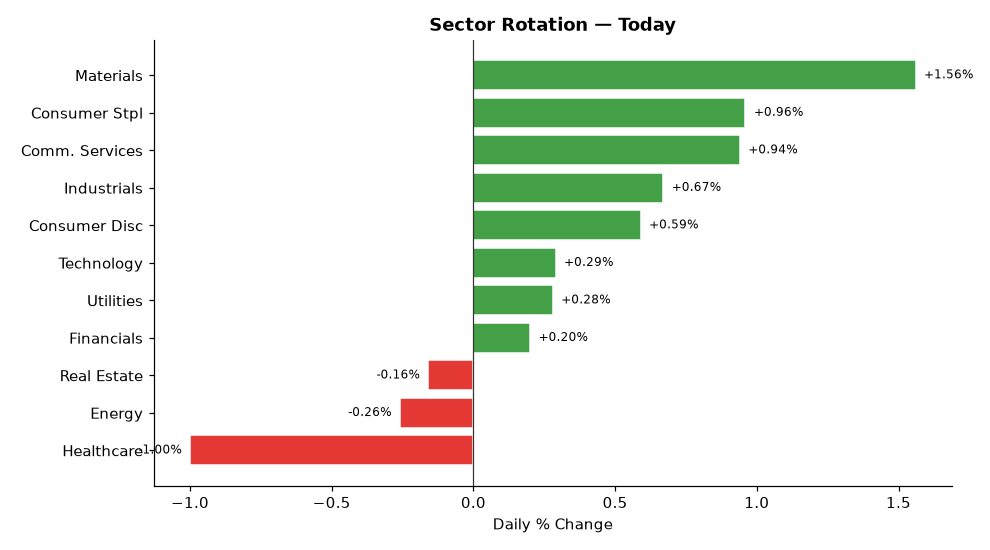
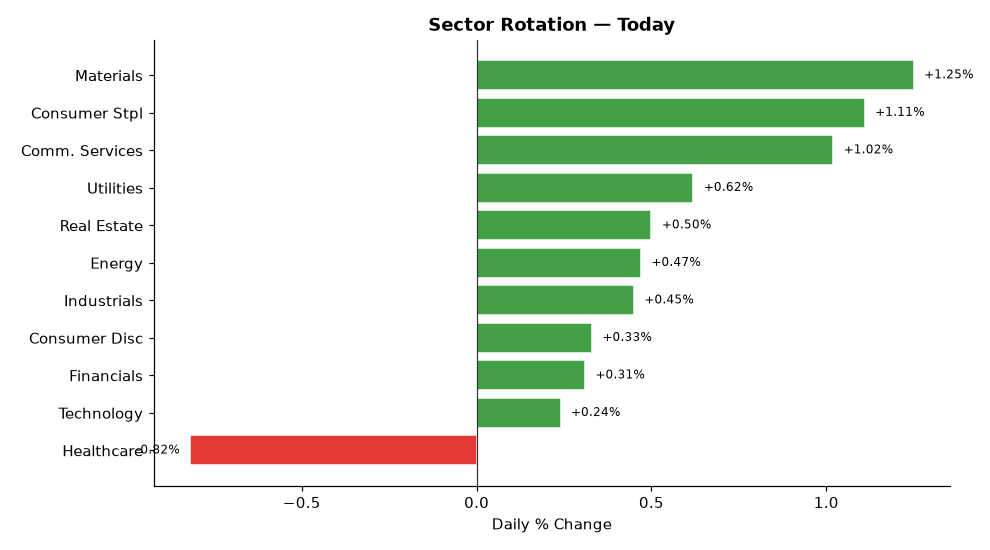
deploy: b7fadf5b06deb90e7ebb92f278722414bdd9750d

diff --git a/index.html b/index.html
@@ -4,7 +4,7 @@
   <meta charset="UTF-8">
   <meta name="viewport" content="width=device-width,initial-scale=1">
   <meta http-equiv="Cache-Control" content="no-cache,no-store,must-revalidate">
-  <title>Stock Breakout Screener — 2026-07-10 18:25</title>
+  <title>Stock Breakout Screener — 2026-07-10 20:17</title>
   <style>
     *{box-sizing:border-box;margin:0;padding:0}
     body{font-family:'Segoe UI',Arial,sans-serif;background:#f0f2f5;
@@ -34,20 +34,20 @@
 
 <div class="hdr">
   <h1>📈 Stock Breakout Screener</h1>
-  <p>Updated: 2026-07-10 18:25 UTC &nbsp;·&nbsp; Phase: Regular Market Hours &nbsp;·&nbsp;
+  <p>Updated: 2026-07-10 20:17 UTC &nbsp;·&nbsp; Phase: After-Hours (4:00–8:00 PM ET) &nbsp;·&nbsp;
      129 stocks screened &nbsp;·&nbsp; Top 5 by conviction score</p>
 </div>
 
 <div class="card">
   <strong style="font-size:14px">Market Sentiment: 🐻 Bearish</strong>
   <div class="bar-wrap" style="margin-top:10px">
-    <div style="width:0%;background:#43a047"></div>
-    <div style="width:8%;background:#fdd835"></div>
+    <div style="width:1%;background:#43a047"></div>
+    <div style="width:7%;background:#fdd835"></div>
     <div style="width:92%;background:#e53935"></div>
   </div>
   <div style="font-size:12px;color:#555">
-    🟢 Strong 0% &nbsp;
-    🟡 Moderate 8% &nbsp;
+    🟢 Strong 1% &nbsp;
+    🟡 Moderate 7% &nbsp;
     🔴 Weak 92%
   </div>
 </div>
@@ -59,17 +59,17 @@
                     box-shadow:0 2px 6px rgba(0,0,0,.07)">
           <div style="display:flex;align-items:center;gap:10px;
                       flex-wrap:wrap;margin-bottom:10px">
-            <span style="font-size:22px">🟡</span>
+            <span style="font-size:22px">🟢</span>
             <span style="font-size:19px;font-weight:700">1. META</span>
             <span style="font-size:12px;color:#666">Comm. Services</span>
             <span style="margin-left:auto;background:#1a237e;color:#fff;
                          padding:3px 12px;border-radius:12px;
                          font-size:13px;font-weight:600">
-              11/17
+              12/17
             </span>
           </div>
           <ul style="margin:0;padding-left:18px;font-size:13px;
-                     color:#333;line-height:1.8"><li style="margin:5px 0"><span style="background:#fffde7;color:#f57f17;padding:2px 7px;border-radius:4px;font-size:11px;">⚠</span> Volume: <b>1.8× average</b> — Above-average activity</li><li style="margin:5px 0"><span style="background:#fffde7;color:#f57f17;padding:2px 7px;border-radius:4px;font-size:11px;">⚠</span> Candle: close <b>$668.86</b> vs open <b>$660.34</b> (+1.3%) — regular market close</li><li style="margin:5px 0"><span style="background:#e8f5e9;color:#2e7d32;padding:2px 7px;border-radius:4px;font-size:11px;">✅</span> 200-Day MA: price <b>$668.86</b> vs MA <b>$623.52</b> — <b>✅ Above</b> long-term trend</li><li style="margin:5px 0"><span style="background:#e8f5e9;color:#2e7d32;padding:2px 7px;border-radius:4px;font-size:11px;">✅</span> Inst. ownership: <b>79.2%</b> · MFI: <b>61.9</b> · Market cap: <b>$1697.1B</b></li></ul>
+                     color:#333;line-height:1.8"><li style="margin:5px 0"><span style="background:#e8f5e9;color:#2e7d32;padding:2px 7px;border-radius:4px;font-size:11px;">✅</span> Volume: <b>2.3× average</b> — 🔥 Strong unusual activity</li><li style="margin:5px 0"><span style="background:#fffde7;color:#f57f17;padding:2px 7px;border-radius:4px;font-size:11px;">⚠</span> Candle: close <b>$669.21</b> vs open <b>$660.34</b> (+1.3%) — regular market close</li><li style="margin:5px 0"><span style="background:#e8f5e9;color:#2e7d32;padding:2px 7px;border-radius:4px;font-size:11px;">✅</span> 200-Day MA: price <b>$669.21</b> vs MA <b>$623.52</b> — <b>✅ Above</b> long-term trend</li><li style="margin:5px 0"><span style="background:#e8f5e9;color:#2e7d32;padding:2px 7px;border-radius:4px;font-size:11px;">✅</span> Inst. ownership: <b>79.2%</b> · MFI: <b>63.3</b> · Market cap: <b>$1698.7B</b></li></ul>
         </div>
         <div style="background:#fff;border:1px solid #ddd;border-radius:10px;
                     padding:16px 20px;margin-bottom:12px;
@@ -86,7 +86,7 @@
             </span>
           </div>
           <ul style="margin:0;padding-left:18px;font-size:13px;
-                     color:#333;line-height:1.8"><li style="margin:5px 0"><span style="background:#ffebee;color:#b71c1c;padding:2px 7px;border-radius:4px;font-size:11px;">❌</span> Volume: <b>0.7× average</b> — Above-average activity</li><li style="margin:5px 0"><span style="background:#ffebee;color:#b71c1c;padding:2px 7px;border-radius:4px;font-size:11px;">❌</span> Candle: close <b>$273.03</b> vs open <b>$273.80</b> (-0.3%) — regular market close</li><li style="margin:5px 0"><span style="background:#e8f5e9;color:#2e7d32;padding:2px 7px;border-radius:4px;font-size:11px;">✅</span> 200-Day MA: price <b>$273.03</b> vs MA <b>$272.36</b> — <b>✅ Above</b> long-term trend</li><li style="margin:5px 0"><span style="background:#e8f5e9;color:#2e7d32;padding:2px 7px;border-radius:4px;font-size:11px;">✅</span> Inst. ownership: <b>93.8%</b> · MFI: <b>66.8</b> · Market cap: <b>$77.4B</b></li></ul>
+                     color:#333;line-height:1.8"><li style="margin:5px 0"><span style="background:#ffebee;color:#b71c1c;padding:2px 7px;border-radius:4px;font-size:11px;">❌</span> Volume: <b>0.3× average</b> — Above-average activity</li><li style="margin:5px 0"><span style="background:#ffebee;color:#b71c1c;padding:2px 7px;border-radius:4px;font-size:11px;">❌</span> Candle: close <b>$274.31</b> vs open <b>$273.64</b> (+0.2%) — regular market close</li><li style="margin:5px 0"><span style="background:#e8f5e9;color:#2e7d32;padding:2px 7px;border-radius:4px;font-size:11px;">✅</span> 200-Day MA: price <b>$274.31</b> vs MA <b>$272.35</b> — <b>✅ Above</b> long-term trend</li><li style="margin:5px 0"><span style="background:#e8f5e9;color:#2e7d32;padding:2px 7px;border-radius:4px;font-size:11px;">✅</span> Inst. ownership: <b>93.8%</b> · MFI: <b>67.0</b> · Market cap: <b>$77.2B</b></li></ul>
         </div>
         <div style="background:#fff;border:1px solid #ddd;border-radius:10px;
                     padding:16px 20px;margin-bottom:12px;
@@ -103,7 +103,7 @@
             </span>
           </div>
           <ul style="margin:0;padding-left:18px;font-size:13px;
-                     color:#333;line-height:1.8"><li style="margin:5px 0"><span style="background:#ffebee;color:#b71c1c;padding:2px 7px;border-radius:4px;font-size:11px;">❌</span> Volume: <b>0.3× average</b> — Above-average activity</li><li style="margin:5px 0"><span style="background:#ffebee;color:#b71c1c;padding:2px 7px;border-radius:4px;font-size:11px;">❌</span> Candle: close <b>$314.68</b> vs open <b>$314.72</b> (-0.0%) — regular market close</li><li style="margin:5px 0"><span style="background:#e8f5e9;color:#2e7d32;padding:2px 7px;border-radius:4px;font-size:11px;">✅</span> 200-Day MA: price <b>$314.68</b> vs MA <b>$275.62</b> — <b>✅ Above</b> long-term trend</li><li style="margin:5px 0"><span style="background:#e8f5e9;color:#2e7d32;padding:2px 7px;border-radius:4px;font-size:11px;">✅</span> Inst. ownership: <b>65.7%</b> · MFI: <b>74.2</b> · Market cap: <b>$4621.2B</b></li><li style="margin:5px 0"><span style="background:#e8f5e9;color:#2e7d32;padding:2px 7px;border-radius:4px;font-size:11px;">✅</span> Last similar breakout: <b>Jun 26, 2026</b> → <b>+10.9%</b> over 10 trading days</li></ul>
+                     color:#333;line-height:1.8"><li style="margin:5px 0"><span style="background:#ffebee;color:#b71c1c;padding:2px 7px;border-radius:4px;font-size:11px;">❌</span> Volume: <b>0.6× average</b> — Above-average activity</li><li style="margin:5px 0"><span style="background:#ffebee;color:#b71c1c;padding:2px 7px;border-radius:4px;font-size:11px;">❌</span> Candle: close <b>$315.32</b> vs open <b>$314.72</b> (+0.2%) — regular market close</li><li style="margin:5px 0"><span style="background:#e8f5e9;color:#2e7d32;padding:2px 7px;border-radius:4px;font-size:11px;">✅</span> 200-Day MA: price <b>$315.32</b> vs MA <b>$275.62</b> — <b>✅ Above</b> long-term trend</li><li style="margin:5px 0"><span style="background:#e8f5e9;color:#2e7d32;padding:2px 7px;border-radius:4px;font-size:11px;">✅</span> Inst. ownership: <b>65.7%</b> · MFI: <b>74.6</b> · Market cap: <b>$4631.2B</b></li><li style="margin:5px 0"><span style="background:#e8f5e9;color:#2e7d32;padding:2px 7px;border-radius:4px;font-size:11px;">✅</span> Last similar breakout: <b>Jun 26, 2026</b> → <b>+11.1%</b> over 10 trading days</li></ul>
         </div>
         <div style="background:#fff;border:1px solid #ddd;border-radius:10px;
                     padding:16px 20px;margin-bottom:12px;
@@ -111,16 +111,16 @@
           <div style="display:flex;align-items:center;gap:10px;
                       flex-wrap:wrap;margin-bottom:10px">
             <span style="font-size:22px">🟡</span>
-            <span style="font-size:19px;font-weight:700">4. EXPE</span>
-            <span style="font-size:12px;color:#666">Consumer Disc</span>
+            <span style="font-size:19px;font-weight:700">4. CSCO</span>
+            <span style="font-size:12px;color:#666">Technology</span>
             <span style="margin-left:auto;background:#1a237e;color:#fff;
                          padding:3px 12px;border-radius:12px;
                          font-size:13px;font-weight:600">
-              10/17
+              9/17
             </span>
           </div>
           <ul style="margin:0;padding-left:18px;font-size:13px;
-                     color:#333;line-height:1.8"><li style="margin:5px 0"><span style="background:#ffebee;color:#b71c1c;padding:2px 7px;border-radius:4px;font-size:11px;">❌</span> Volume: <b>1.1× average</b> — Above-average activity</li><li style="margin:5px 0"><span style="background:#e8f5e9;color:#2e7d32;padding:2px 7px;border-radius:4px;font-size:11px;">✅</span> Candle: close <b>$267.78</b> vs open <b>$259.60</b> (+3.2%) — regular market close</li><li style="margin:5px 0"><span style="background:#e8f5e9;color:#2e7d32;padding:2px 7px;border-radius:4px;font-size:11px;">✅</span> 200-Day MA: price <b>$267.78</b> vs MA <b>$239.89</b> — <b>✅ Above</b> long-term trend</li><li style="margin:5px 0"><span style="background:#e8f5e9;color:#2e7d32;padding:2px 7px;border-radius:4px;font-size:11px;">✅</span> Inst. ownership: <b>104.4%</b> · MFI: <b>66.7</b> · Market cap: <b>$32.5B</b></li><li style="margin:5px 0"><span style="background:#ffebee;color:#b71c1c;padding:2px 7px;border-radius:4px;font-size:11px;">❌</span> Last similar breakout: <b>Mar 05, 2026</b> → <b>-4.8%</b> over 10 trading days</li></ul>
+                     color:#333;line-height:1.8"><li style="margin:5px 0"><span style="background:#ffebee;color:#b71c1c;padding:2px 7px;border-radius:4px;font-size:11px;">❌</span> Volume: <b>1.0× average</b> — Above-average activity</li><li style="margin:5px 0"><span style="background:#e8f5e9;color:#2e7d32;padding:2px 7px;border-radius:4px;font-size:11px;">✅</span> Candle: close <b>$121.31</b> vs open <b>$117.62</b> (+3.1%) — regular market close</li><li style="margin:5px 0"><span style="background:#e8f5e9;color:#2e7d32;padding:2px 7px;border-radius:4px;font-size:11px;">✅</span> 200-Day MA: price <b>$121.31</b> vs MA <b>$93.18</b> — <b>✅ Above</b> long-term trend</li><li style="margin:5px 0"><span style="background:#e8f5e9;color:#2e7d32;padding:2px 7px;border-radius:4px;font-size:11px;">✅</span> Inst. ownership: <b>82.8%</b> · MFI: <b>51.8</b> · Market cap: <b>$478.1B</b></li></ul>
         </div>
         <div style="background:#fff;border:1px solid #ddd;border-radius:10px;
                     padding:16px 20px;margin-bottom:12px;
@@ -137,7 +137,7 @@
             </span>
           </div>
           <ul style="margin:0;padding-left:18px;font-size:13px;
-                     color:#333;line-height:1.8"><li style="margin:5px 0"><span style="background:#ffebee;color:#b71c1c;padding:2px 7px;border-radius:4px;font-size:11px;">❌</span> Volume: <b>0.3× average</b> — Above-average activity</li><li style="margin:5px 0"><span style="background:#ffebee;color:#b71c1c;padding:2px 7px;border-radius:4px;font-size:11px;">❌</span> Candle: close <b>$106.66</b> vs open <b>$106.25</b> (+0.4%) — regular market close</li><li style="margin:5px 0"><span style="background:#e8f5e9;color:#2e7d32;padding:2px 7px;border-radius:4px;font-size:11px;">✅</span> 200-Day MA: price <b>$106.66</b> vs MA <b>$98.05</b> — <b>✅ Above</b> long-term trend</li><li style="margin:5px 0"><span style="background:#e8f5e9;color:#2e7d32;padding:2px 7px;border-radius:4px;font-size:11px;">✅</span> Inst. ownership: <b>86.8%</b> · MFI: <b>63.3</b> · Market cap: <b>$121.6B</b></li><li style="margin:5px 0"><span style="background:#fffde7;color:#f57f17;padding:2px 7px;border-radius:4px;font-size:11px;">⚠</span> Last similar breakout: <b>Apr 29, 2026</b> → <b>+0.4%</b> over 10 trading days</li></ul>
+                     color:#333;line-height:1.8"><li style="margin:5px 0"><span style="background:#ffebee;color:#b71c1c;padding:2px 7px;border-radius:4px;font-size:11px;">❌</span> Volume: <b>0.5× average</b> — Above-average activity</li><li style="margin:5px 0"><span style="background:#ffebee;color:#b71c1c;padding:2px 7px;border-radius:4px;font-size:11px;">❌</span> Candle: close <b>$106.01</b> vs open <b>$106.30</b> (-0.3%) — regular market close</li><li style="margin:5px 0"><span style="background:#e8f5e9;color:#2e7d32;padding:2px 7px;border-radius:4px;font-size:11px;">✅</span> 200-Day MA: price <b>$106.01</b> vs MA <b>$98.04</b> — <b>✅ Above</b> long-term trend</li><li style="margin:5px 0"><span style="background:#e8f5e9;color:#2e7d32;padding:2px 7px;border-radius:4px;font-size:11px;">✅</span> Inst. ownership: <b>86.8%</b> · MFI: <b>64.1</b> · Market cap: <b>$120.8B</b></li><li style="margin:5px 0"><span style="background:#fffde7;color:#f57f17;padding:2px 7px;border-radius:4px;font-size:11px;">⚠</span> Last similar breakout: <b>Apr 29, 2026</b> → <b>+0.4%</b> over 10 trading days</li></ul>
         </div>
 
 
@@ -168,36 +168,36 @@
   
         <tr>
           <td style="font-weight:700;text-align:left;padding-left:10px">
-            🟡 META</td>
-          <td style="background:#fff9c4">1.8×</td>
+            🟢 META</td>
+          <td style="background:#c8e6c9">2.3×</td>
           <td style="background:#fff9c4">+1.3%</td>
           <td style="background:#c8e6c9">
             ▲ Above</td>
           <td style="background:#c8e6c9">
             79.2%</td>
           <td style="background:#c8e6c9">
-            61.9</td>
+            63.3</td>
           <td style="background:#fff9c4">Comm. Services</td>
           <td style="background:#c8e6c9">
-            62.7%</td>
+            62.0%</td>
           <td style="background:#ffcdd2">
             N/A</td>
-          <td style="font-weight:800;font-size:15px">11/17</td>
+          <td style="font-weight:800;font-size:15px">12/17</td>
         </tr>
         <tr>
           <td style="font-weight:700;text-align:left;padding-left:10px">
             🟡 ECL</td>
-          <td style="background:#ffcdd2">0.7×</td>
-          <td style="background:#ffcdd2">-0.3%</td>
+          <td style="background:#ffcdd2">0.3×</td>
+          <td style="background:#ffcdd2">+0.2%</td>
           <td style="background:#c8e6c9">
             ▲ Above</td>
           <td style="background:#c8e6c9">
             93.8%</td>
           <td style="background:#c8e6c9">
-            66.8</td>
+            67.0</td>
           <td style="background:#c8e6c9">Materials</td>
           <td style="background:#c8e6c9">
-            58.1%</td>
+            58.7%</td>
           <td style="background:#ffcdd2">
             N/A</td>
           <td style="font-weight:800;font-size:15px">11/17</td>
@@ -205,53 +205,53 @@
         <tr>
           <td style="font-weight:700;text-align:left;padding-left:10px">
             🟡 AAPL</td>
-          <td style="background:#ffcdd2">0.3×</td>
-          <td style="background:#ffcdd2">-0.0%</td>
+          <td style="background:#ffcdd2">0.6×</td>
+          <td style="background:#ffcdd2">+0.2%</td>
           <td style="background:#c8e6c9">
             ▲ Above</td>
           <td style="background:#c8e6c9">
             65.7%</td>
           <td style="background:#c8e6c9">
-            74.2</td>
+            74.6</td>
           <td style="background:#ffcdd2">Technology</td>
           <td style="background:#c8e6c9">
-            229.4%</td>
+            280.2%</td>
           <td style="background:#c8e6c9">
-            +10.9%</td>
+            +11.1%</td>
           <td style="font-weight:800;font-size:15px">10/17</td>
         </tr>
         <tr>
           <td style="font-weight:700;text-align:left;padding-left:10px">
-            🟡 EXPE</td>
-          <td style="background:#ffcdd2">1.1×</td>
-          <td style="background:#c8e6c9">+3.2%</td>
+            🟡 CSCO</td>
+          <td style="background:#ffcdd2">1.0×</td>
+          <td style="background:#c8e6c9">+3.1%</td>
           <td style="background:#c8e6c9">
             ▲ Above</td>
           <td style="background:#c8e6c9">
-            104.4%</td>
+            82.8%</td>
+          <td style="background:#fff9c4">
+            51.8</td>
+          <td style="background:#ffcdd2">Technology</td>
           <td style="background:#c8e6c9">
-            66.7</td>
-          <td style="background:#ffcdd2">Consumer Disc</td>
-          <td style="background:#c8e6c9">
-            234.8%</td>
+            184.2%</td>
           <td style="background:#ffcdd2">
-            -4.8%</td>
-          <td style="font-weight:800;font-size:15px">10/17</td>
+            N/A</td>
+          <td style="font-weight:800;font-size:15px">9/17</td>
         </tr>
         <tr>
           <td style="font-weight:700;text-align:left;padding-left:10px">
             🟡 SBUX</td>
-          <td style="background:#ffcdd2">0.3×</td>
-          <td style="background:#ffcdd2">+0.4%</td>
+          <td style="background:#ffcdd2">0.5×</td>
+          <td style="background:#ffcdd2">-0.3%</td>
           <td style="background:#c8e6c9">
             ▲ Above</td>
           <td style="background:#c8e6c9">
             86.8%</td>
           <td style="background:#c8e6c9">
-            63.3</td>
+            64.1</td>
           <td style="background:#ffcdd2">Consumer Disc</td>
           <td style="background:#c8e6c9">
-            178.2%</td>
+            218.0%</td>
           <td style="background:#fff9c4">
             +0.4%</td>
           <td style="font-weight:800;font-size:15px">9/17</td>
@@ -278,57 +278,57 @@
         <tr>
           <td style="text-align:left;padding-left:10px;font-weight:600">
             #1 Materials</td>
-          <td style="background:#e8f5e9;color:#2e7d32;font-weight:700">+1.56%</td>
+          <td style="background:#e8f5e9;color:#2e7d32;font-weight:700">+1.25%</td>
         </tr>
         <tr>
           <td style="text-align:left;padding-left:10px;font-weight:600">
             #2 Consumer Stpl</td>
-          <td style="background:#e8f5e9;color:#2e7d32;font-weight:700">+0.96%</td>
+          <td style="background:#e8f5e9;color:#2e7d32;font-weight:700">+1.11%</td>
         </tr>
         <tr>
           <td style="text-align:left;padding-left:10px;font-weight:600">
             #3 Comm. Services</td>
-          <td style="background:#e8f5e9;color:#2e7d32;font-weight:700">+0.94%</td>
+          <td style="background:#e8f5e9;color:#2e7d32;font-weight:700">+1.02%</td>
         </tr>
         <tr>
           <td style="text-align:left;padding-left:10px;font-weight:600">
-            #4 Industrials</td>
-          <td style="background:#e8f5e9;color:#2e7d32;font-weight:700">+0.67%</td>
+            #4 Utilities</td>
+          <td style="background:#e8f5e9;color:#2e7d32;font-weight:700">+0.62%</td>
         </tr>
         <tr>
           <td style="text-align:left;padding-left:10px;font-weight:600">
-            #5 Consumer Disc</td>
-          <td style="background:#e8f5e9;color:#2e7d32;font-weight:700">+0.59%</td>
+            #5 Real Estate</td>
+          <td style="background:#e8f5e9;color:#2e7d32;font-weight:700">+0.50%</td>
         </tr>
         <tr>
           <td style="text-align:left;padding-left:10px;font-weight:600">
-            #6 Technology</td>
-          <td style="background:#e8f5e9;color:#2e7d32;font-weight:700">+0.29%</td>
+            #6 Energy</td>
+          <td style="background:#e8f5e9;color:#2e7d32;font-weight:700">+0.47%</td>
         </tr>
         <tr>
           <td style="text-align:left;padding-left:10px;font-weight:600">
-            #7 Utilities</td>
-          <td style="background:#e8f5e9;color:#2e7d32;font-weight:700">+0.28%</td>
+            #7 Industrials</td>
+          <td style="background:#e8f5e9;color:#2e7d32;font-weight:700">+0.45%</td>
         </tr>
         <tr>
           <td style="text-align:left;padding-left:10px;font-weight:600">
-            #8 Financials</td>
-          <td style="background:#e8f5e9;color:#2e7d32;font-weight:700">+0.20%</td>
+            #8 Consumer Disc</td>
+          <td style="background:#e8f5e9;color:#2e7d32;font-weight:700">+0.33%</td>
         </tr>
         <tr>
           <td style="text-align:left;padding-left:10px;font-weight:600">
-            #9 Real Estate</td>
-          <td style="background:#ffebee;color:#c62828;font-weight:700">-0.16%</td>
+            #9 Financials</td>
+          <td style="background:#e8f5e9;color:#2e7d32;font-weight:700">+0.31%</td>
         </tr>
         <tr>
           <td style="text-align:left;padding-left:10px;font-weight:600">
-            #10 Energy</td>
-          <td style="background:#ffebee;color:#c62828;font-weight:700">-0.26%</td>
+            #10 Technology</td>
+          <td style="background:#e8f5e9;color:#2e7d32;font-weight:700">+0.24%</td>
         </tr>
         <tr>
           <td style="text-align:left;padding-left:10px;font-weight:600">
             #11 Healthcare</td>
-          <td style="background:#ffebee;color:#c62828;font-weight:700">-1.00%</td>
+          <td style="background:#ffebee;color:#c62828;font-weight:700">-0.82%</td>
         </tr>
     </table>
   </div>
@@ -367,7 +367,7 @@
         <li><b>Scoring weights:</b>
             Inst.Own(3) · Sector(3) · Volume(2) · Breakout(2) ·
             MA200(2) · MFI(2) · History(2) · IV(1) = 17pts max</li>
-        <li><b>Run time:</b> 2026-07-10 18:25 UTC — Market phase: Regular Market Hours</li>
+        <li><b>Run time:</b> 2026-07-10 20:17 UTC — Market phase: After-Hours (4:00–8:00 PM ET)</li>
       </ul>
     </div>
 
